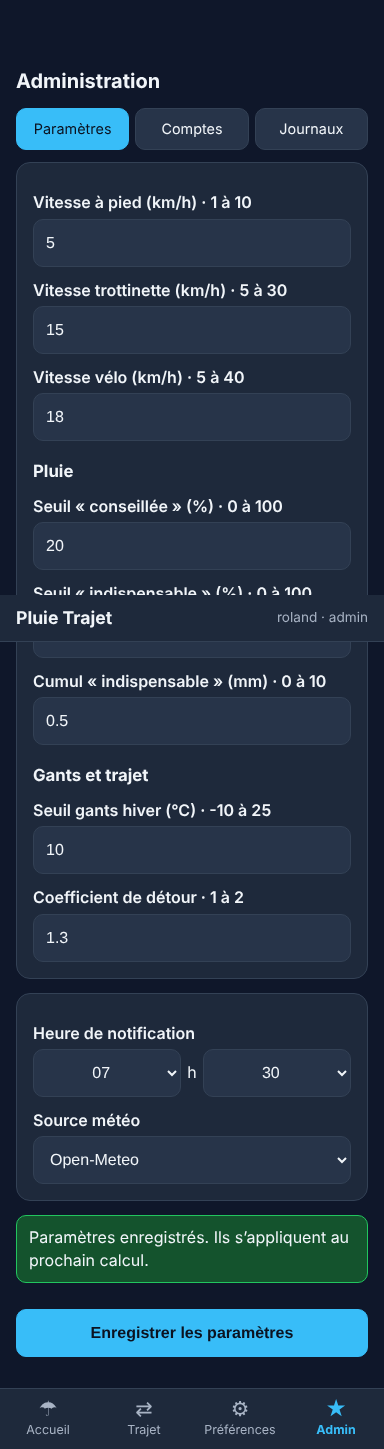
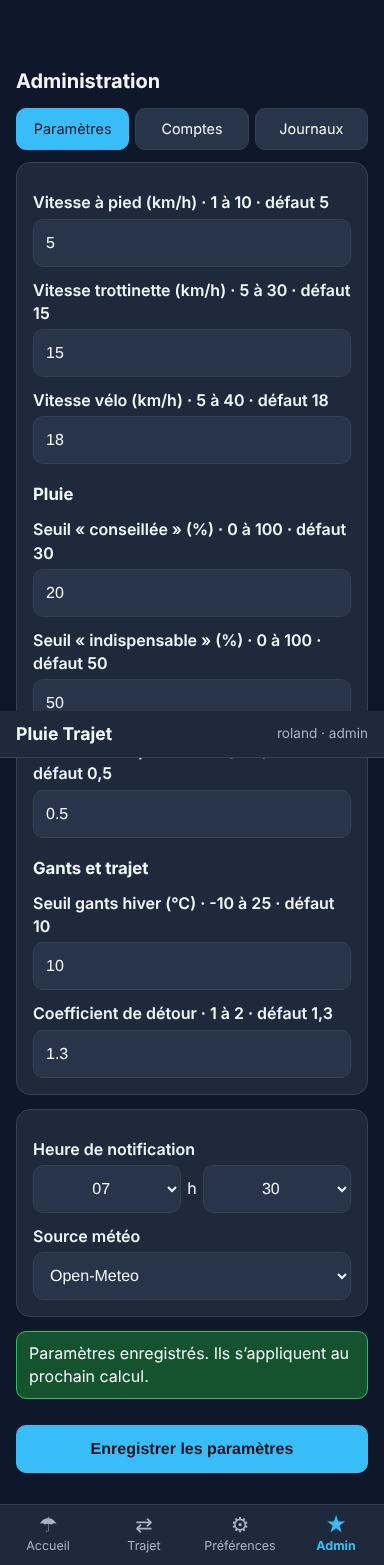
v1.0.1 : corrections des anomalies de la recette et re-recette
- ANO-01 champ admin vidé : valeur par défaut de la SDB (décision de Roland)
- ANO-03 nouvelle version livrée au téléphone (VERSION suffixée du commit au déploiement, cache sans HTTP, rechargement à la prise en main)
- ANO-04 date de mise à jour, ANO-05 un jour minimum, ANO-06 horaires inversés signalés
- ANO-07 temps de refus identique, ANO-08 coordonnées à 2 décimales, ANO-10 notification signale une prévision ancienne
- README : mot de passe admin oublié, limites connues (ANO-02 accepté en v1)
- Tests de recette en non-régression, ajoutés au workflow ; cahier de dev v1.0.1, cahier de recette v1.1

Claude-Session: https://claude.ai/code/session_01LxcTM3yKJSypCYi11mnSuz

diff --git a/app/js/ui/screens/admin.js b/app/js/ui/screens/admin.js
@@ -2,7 +2,7 @@
 import { ROLES } from '../../core/auth.js';
 import { LOG_TYPES } from '../../core/logs.js';
 import { loadSettings } from '../../core/service.js';
-import { validateSettings, WEATHER_SOURCES } from '../../core/settings.js';
+import { DEFAULT_SETTINGS, validateSettings, WEATHER_SOURCES } from '../../core/settings.js';
 import { KEYS } from '../../core/store.js';
 import { alertBox, fmtDateTime, h, mount, timeInput } from '../dom.js';
 
@@ -26,13 +26,15 @@ const FIELDS = [
   ['detourCoef', 'Coefficient de détour', 1, 2, '0.05'],
 ];
 
+const LABELS = Object.fromEntries(FIELDS.map(([key, label]) => [key, label]));
+
 export async function renderAdminParams(view, ctx) {
   const s = await loadSettings(ctx.store);
   const msg = h('div', { id: 'params-msg' });
   const inputs = {};
   const fields = FIELDS.map(([key, label, min, max, step]) => {
-    inputs[key] = h('input', { type: 'number', id: `p-${key}`, min, max, step, value: s[key], inputmode: 'decimal', required: true });
-    return h('div', {}, h('label', { for: `p-${key}` }, `${label} · ${min} à ${max}`), inputs[key]);
+    inputs[key] = h('input', { type: 'number', id: `p-${key}`, min, max, step, value: s[key], inputmode: 'decimal', required: true, placeholder: `Défaut ${DEFAULT_SETTINGS[key]}` });
+    return h('div', {}, h('label', { for: `p-${key}` }, `${label} · ${min} à ${max} · défaut ${String(DEFAULT_SETTINGS[key]).replace('.', ',')}`), inputs[key]);
   });
   inputs.notifyTime = timeInput('p-notifyTime', s.notifyTime, 'Heure de notification');
   inputs.weatherSource = h('select', { id: 'p-weatherSource' }, WEATHER_SOURCES.map((w) => h('option', { value: w, selected: w === s.weatherSource }, 'Open-Meteo')));
@@ -43,13 +45,26 @@ export async function renderAdminParams(view, ctx) {
       novalidate: true,
       onsubmit: async (e) => {
         e.preventDefault();
+        const before = { ...s };
         const input = Object.fromEntries(Object.entries(inputs).map(([k, el]) => [k, el.value]));
         const v = validateSettings(input);
         if (!v.ok) return mount(msg, alertBox(v.errors.join(' · ')));
+        // ANO-01 : un champ vidé est réaffiché avec sa valeur par défaut avant enregistrement
+        for (const k of v.defaulted) inputs[k].value = v.value[k];
         await ctx.store.set(KEYS.settings, v.value);
-        const changed = Object.keys(v.value).filter((k) => v.value[k] !== s[k]);
+        Object.assign(s, v.value);
+        const changed = Object.keys(v.value).filter((k) => v.value[k] !== before[k]);
         await ctx.logger.log('admin', `Paramètres modifiés : ${changed.join(', ') || 'aucun changement'}`);
-        mount(msg, alertBox('Paramètres enregistrés. Ils s’appliquent au prochain calcul.', 'success'));
+        const reset = v.defaulted.map((k) => `${LABELS[k]} : ${String(v.value[k]).replace('.', ',')}`);
+        mount(
+          msg,
+          alertBox(
+            reset.length
+              ? `Paramètres enregistrés. Champ vide remis à sa valeur par défaut : ${reset.join(' · ')}.`
+              : 'Paramètres enregistrés. Ils s’appliquent au prochain calcul.',
+            'success',
+          ),
+        );
       },
     },
     h('div', { class: 'card' }, fields.slice(0, 3), h('h3', {}, 'Pluie'), fields.slice(3, 6), h('h3', {}, 'Gants et trajet'), fields.slice(6)),

diff --git a/app/js/ui/screens/trip.js b/app/js/ui/screens/trip.js
@@ -1,7 +1,7 @@
 // Mon trajet (EXG-04 à EXG-07) : adresses, carte, ma position, horaires, jours, mode/vitesse.
 import { reverseLabel, searchAddress } from '../../core/address.js';
 import { tripMetrics } from '../../core/forecast.js';
-import { MANUAL_SPEED_MAX, MANUAL_SPEED_MIN, MODES, validateTrip, WEEKDAYS } from '../../core/rules.js';
+import { eveningBeforeMorning, MANUAL_SPEED_MAX, MANUAL_SPEED_MIN, MODES, validateTrip, WEEKDAYS } from '../../core/rules.js';
 import { loadSettings } from '../../core/service.js';
 import { KEYS } from '../../core/store.js';
 import { alertBox, fmtNum, h, mount, timeInput } from '../dom.js';
@@ -156,6 +156,7 @@ export async function renderTrip(view, ctx) {
     ),
   );
 
+  let confirmedTimes = null;
   const saveBtn = h('button', { type: 'submit', class: 'primary block', id: 'save-trip' }, 'Enregistrer mon trajet');
   const form = h(
     'form',
@@ -173,6 +174,13 @@ export async function renderTrip(view, ctx) {
         };
         const v = validateTrip(candidate);
         if (!v.ok) return mount(msg, alertBox(v.errors.join(' · ')));
+        // ANO-06 : horaires inversés → avertissement, confirmation par un second appui
+        const timesKey = `${candidate.morning}|${candidate.evening}`;
+        if (eveningBeforeMorning(candidate) && confirmedTimes !== timesKey) {
+          confirmedTimes = timesKey;
+          saveBtn.textContent = 'Enregistrer quand même';
+          return mount(msg, alertBox(`Attention : le départ du soir (${candidate.evening}) n’est pas après celui du matin (${candidate.morning}). Vérifiez vos horaires, ou appuyez sur « Enregistrer quand même ».`, 'warn'));
+        }
         await ctx.store.set(KEYS.trip(ctx.user.id), candidate);
         await ctx.store.del(KEYS.forecast(ctx.user.id));
         mount(msg, alertBox('Trajet enregistré.', 'success'));

diff --git a/app/js/core/settings.js b/app/js/core/settings.js
@@ -31,12 +31,19 @@ export const TIME_RE = /^([01]\d|2[0-3]):[0-5]\d$/;
 /**
  * Valide un objet de paramètres complet. Retourne { ok, errors, value }.
  * Les nombres peuvent arriver en chaîne (formulaire) : ils sont convertis.
+ * Un champ numérique vide reprend sa valeur par défaut ; `defaulted` liste ces champs.
  */
 export function validateSettings(input) {
   const errors = [];
   const value = { ...DEFAULT_SETTINGS };
+  const defaulted = [];
   for (const [key, [min, max, label]] of Object.entries(NUMERIC_BOUNDS)) {
     const raw = input?.[key];
+    // Champ vidé : jamais enregistré vide ni à 0, il reprend la valeur par défaut de la SDB (décision du 27/11/2026).
+    if (input != null && typeof raw === 'string' && raw.trim() === '') {
+      defaulted.push(key);
+      continue;
+    }
     const n = typeof raw === 'string' ? Number(raw.replace(',', '.')) : raw;
     if (!Number.isFinite(n) || n < min || n > max) {
       errors.push(`${label} : valeur attendue entre ${min} et ${max}`);
@@ -57,7 +64,7 @@ export function validateSettings(input) {
   if (errors.length === 0 && !(value.rainAdvisedPct < value.rainRequiredPct)) {
     errors.push('Le seuil « conseillée » doit être inférieur au seuil « indispensable »');
   }
-  return { ok: errors.length === 0, errors, value: errors.length === 0 ? value : null };
+  return { ok: errors.length === 0, errors, value: errors.length === 0 ? value : null, defaulted };
 }
 
 /** Fusionne des paramètres stockés avec les défauts (tolère les anciennes versions). */

diff --git a/app/js/ui/screens/home.js b/app/js/ui/screens/home.js
@@ -1,6 +1,6 @@
 // Accueil : verdict du jour (EXG-08 à EXG-10, EXG-12, RG-07).
-import { getDayReport, loadSettings } from '../../core/service.js';
-import { MODES, pointLevel } from '../../core/rules.js';
+import { getDayReport, loadSettings, stamp } from '../../core/service.js';
+import { MODES, pointLevel, sameDay } from '../../core/rules.js';
 import { KEYS } from '../../core/store.js';
 import { alertBox, fmtNum, fmtTime, h, mount } from '../dom.js';
 
@@ -9,6 +9,11 @@ const ADVICE = [
   'Vêtements de pluie conseillés.',
   'Prenez vos vêtements de pluie.',
 ];
+
+/** EXG-12 / ANO-04 : la date est ajoutée quand la prévision n'est pas du jour. */
+function updatedLabel(fetchedAt) {
+  return sameDay(new Date(fetchedAt), new Date()) ? `Mis à jour à ${fmtTime(fetchedAt)}` : `Mis à jour le ${stamp(fetchedAt)}`;
+}
 
 function verdictCard(report) {
   const { verdict, gloves } = report.result;
@@ -23,7 +28,7 @@ function verdictCard(report) {
       'div',
       { class: 'chips' },
       h('span', { class: 'chip', id: 'gloves' }, `🧤 ${gloves.label} (min ${fmtNum(gloves.minTemp)} °C)`),
-      h('span', { class: 'chip', id: 'updated' }, `Mis à jour à ${fmtTime(report.fetchedAt)}`),
+      h('span', { class: 'chip', id: 'updated' }, updatedLabel(report.fetchedAt)),
     ),
   );
 }

diff --git a/app/js/ui/app.js b/app/js/ui/app.js
@@ -10,7 +10,7 @@ import { renderPrefs } from './screens/prefs.js';
 import { renderAdminAccounts, renderAdminLogs, renderAdminParams } from './screens/admin.js';
 import { startNotificationScheduler } from './notifications.js';
 
-export const APP_VERSION = '1.0.0';
+export const APP_VERSION = '1.0.1';
 
 const ROUTES = {
   '/accueil': { render: renderHome, role: 'user', title: 'Accueil' },
@@ -131,6 +131,15 @@ window.addEventListener('error', (e) => logger.log('error', `JS : ${e.message}`)
 window.addEventListener('unhandledrejection', (e) => logger.log('error', `JS : ${e.reason?.message ?? e.reason}`));
 
 if ('serviceWorker' in navigator) {
+  // ANO-03 : quand une nouvelle version prend la main, on recharge une fois pour l'afficher tout de suite
+  // (pas au tout premier lancement, où il n'y avait pas encore de version installée).
+  const hadController = !!navigator.serviceWorker.controller;
+  let reloading = false;
+  navigator.serviceWorker.addEventListener('controllerchange', () => {
+    if (!hadController || reloading) return;
+    reloading = true;
+    location.reload();
+  });
   navigator.serviceWorker.register('sw.js', { type: 'module' }).catch((e) => logger.log('error', `Service worker : ${e.message}`));
 }
 

diff --git a/app/js/core/auth.js b/app/js/core/auth.js
@@ -40,6 +40,9 @@ export function createAuth({ store, volatile, logger, now = () => Date.now(), it
   const saveAccounts = (list) => store.set(KEYS.accounts, list);
   const log = (type, msg) => logger?.log(type, msg);
 
+  let dummy;
+  const dummyRecord = () => (dummy ??= { algo: 'PBKDF2-SHA256', iterations, salt: randomHex(16), hash: randomHex(32) });
+
   async function adminCount(list) {
     return list.filter((a) => a.role === 'admin').length;
   }
@@ -65,7 +68,8 @@ export function createAuth({ store, volatile, logger, now = () => Date.now(), it
         return { ok: false, error: `Trop d'essais. Réessayez dans ${s} s.` };
       }
       const acc = (await accounts()).find((a) => a.username.toLowerCase() === String(username).toLowerCase());
-      const good = acc ? await verifyPassword(password, acc.password) : false;
+      // ANO-07 : même calcul de hachage que l'identifiant existe ou non (temps de réponse identique)
+      const good = acc ? await verifyPassword(password, acc.password) : (await verifyPassword(String(password), dummyRecord()), false);
       if (!good) {
         guard.failed += 1;
         if (guard.failed >= MAX_FAILED) {

diff --git a/app/js/core/service.js b/app/js/core/service.js
@@ -52,6 +52,13 @@ export async function getDayReport({ store, logger, userId, refresh = true, fetc
   }
 }
 
+const pad2 = (n) => String(n).padStart(2, '0');
+/** « JJ/MM à HH:MM » en heure locale. */
+export function stamp(ms) {
+  const d = new Date(ms);
+  return `${pad2(d.getDate())}/${pad2(d.getMonth() + 1)} à ${pad2(d.getHours())}:${pad2(d.getMinutes())}`;
+}
+
 /** Texte de la notification quotidienne (EXG-11). */
 export function notificationText(report) {
   const r = report.result;
@@ -62,5 +69,7 @@ export function notificationText(report) {
       : r.verdict.level === 1
         ? 'Vêtements de pluie conseillés.'
         : 'Pas besoin de vêtements de pluie aujourd’hui.';
-  return { title, body: `${advice} ${r.gloves.label}.` };
+  // ANO-10 : une prévision ancienne (pas de réseau) est signalée dans la notification
+  const old = report.stale && Number.isFinite(report.fetchedAt) ? ` Prévision du ${stamp(report.fetchedAt)}, non mise à jour.` : '';
+  return { title, body: `${advice} ${r.gloves.label}.${old}` };
 }

diff --git a/app/js/core/weather.js b/app/js/core/weather.js
@@ -1,6 +1,8 @@
-// Accès Open-Meteo (RG-03). Seules les coordonnées des points sont envoyées (ENF-09).
+// Accès Open-Meteo (RG-03). Seules les coordonnées des points sont envoyées (ENF-09),
+// arrondies à 2 décimales (≈ 1 km, la maille du modèle météo est d'environ 2 km) : ANO-08.
 
 export const OPEN_METEO_URL = 'https://api.open-meteo.com/v1/forecast';
+export const COORD_DECIMALS = 2;
 export const HOURLY_VARS = ['precipitation_probability', 'precipitation', 'temperature_2m'];
 
 export class WeatherError extends Error {
@@ -14,7 +16,7 @@ export class WeatherError extends Error {
 /** Construit l'URL pour plusieurs points en un seul appel. */
 export function buildForecastUrl(points) {
   if (!points.length) throw new WeatherError('Aucun point à interroger');
-  const fmt = (n) => n.toFixed(4);
+  const fmt = (n) => n.toFixed(COORD_DECIMALS);
   const params = new URLSearchParams({
     latitude: points.map((p) => fmt(p.lat)).join(','),
     longitude: points.map((p) => fmt(p.lon)).join(','),

diff --git a/app/sw.js b/app/sw.js
@@ -3,7 +3,9 @@ import { createLogger } from './js/core/logs.js';
 import { maybeNotify } from './js/core/notifier.js';
 import { idbStore } from './js/core/store.js';
 
-const VERSION = 'v1.0.0';
+// ANO-03 : le workflow de publication remplace cette valeur par « version-commit » à chaque déploiement,
+// ce qui installe un nouveau cache et livre la nouvelle version sur le téléphone.
+const VERSION = 'v1.0.1';
 const CACHE = `pluie-trajet-${VERSION}`;
 const SHELL = [
   './',
@@ -44,7 +46,13 @@ const SHELL = [
 ];
 
 self.addEventListener('install', (event) => {
-  event.waitUntil(caches.open(CACHE).then((c) => c.addAll(SHELL)).then(() => self.skipWaiting()));
+  // cache: 'reload' : on contourne le cache HTTP du navigateur pour ne jamais figer d'anciens fichiers.
+  event.waitUntil(
+    caches
+      .open(CACHE)
+      .then((c) => c.addAll(SHELL.map((u) => new Request(u, { cache: 'reload' }))))
+      .then(() => self.skipWaiting()),
+  );
 });
 
 self.addEventListener('activate', (event) => {

diff --git a/app/js/core/rules.js b/app/js/core/rules.js
@@ -38,6 +38,8 @@ export function validateTrip(trip) {
   if (!TIME_RE.test(String(trip?.evening ?? ''))) errors.push('Heure du soir invalide (HH:MM, 24 h)');
   if (!Array.isArray(trip?.workdays) || trip.workdays.some((d) => !Number.isInteger(d) || d < 0 || d > 6)) {
     errors.push('Jours de travail invalides');
+  } else if (trip.workdays.length === 0) {
+    errors.push('Cochez au moins un jour de travail'); // ANO-05
   }
   if (!Object.hasOwn(MODES, trip?.mode ?? '')) errors.push('Mode de déplacement invalide');
   if (trip?.manualSpeed != null) {
@@ -47,6 +49,11 @@ export function validateTrip(trip) {
     }
   }
   return { ok: errors.length === 0, errors };
+}
+
+/** ANO-06 : départ du soir au plus tard égal à celui du matin (avertissement non bloquant). */
+export function eveningBeforeMorning(trip) {
+  return TIME_RE.test(String(trip?.morning)) && TIME_RE.test(String(trip?.evening)) && trip.evening <= trip.morning;
 }
 
 /** EXG-07 / RG-02 : la vitesse manuelle remplace celle du mode. */

diff --git a/docs/cahier-de-recette.md b/docs/cahier-de-recette.md
@@ -1,6 +1,6 @@
-# Application_01 · Cahier de recette v1.0
+# Application_01 · Cahier de recette v1.1
 
-Version 1.0 du 26/11/2026 · Recetteur : Rec_A · Pilote : manager_A · Demandeur : Roland
+Version 1.1 du 27/11/2026 · Recetteur : Rec_A · Pilote : manager_A · Demandeur : Roland
 
 ## 1. Objet et périmètre
 
@@ -37,7 +37,9 @@ Rejouer la recette : `npm run test:unit`, `npm run test:e2e`, puis `TZ=Europe/Pa
 | Points à arbitrer avec Roland (via manager_A) | 4 |
 | Tests à faire sur le S21 Ultra | 13 |
 
-**Avis du recetteur : recette NON prononcée, avec réserves.** Le cœur métier est juste : les règles RG-01 à RG-08 donnent le bon verdict aux bornes, les profils sont séparés à l'écran, les mots de passe sont correctement hachés et aucun texte externe n'est injecté dans la page. Deux anomalies majeures doivent être corrigées avant la mise en service : un paramètre admin vidé est enregistré à 0 sans prévenir (ANO-01, fausse alerte pluie tous les jours), et une nouvelle version de l'application n'arrive pas sur le téléphone tant que le numéro de cache n'est pas changé à la main (ANO-03, les corrections futures risquent de ne jamais être livrées). Les tests sur le téléphone restent à faire.
+**Mise à jour v1.1 (27/11/2026) : après corrections, toutes les anomalies retenues sont corrigées et vérifiées (section 9). Avis : recette technique, sécurité et fonctionnelle prononcée sur l'environnement de dev ; la validation finale attend les tests sur le S21 Ultra (section 7).**
+
+Avis initial v1.0 : recette NON prononcée, avec réserves. Le cœur métier est juste : les règles RG-01 à RG-08 donnent le bon verdict aux bornes, les profils sont séparés à l'écran, les mots de passe sont correctement hachés et aucun texte externe n'est injecté dans la page. Deux anomalies majeures doivent être corrigées avant la mise en service : un paramètre admin vidé est enregistré à 0 sans prévenir (ANO-01, fausse alerte pluie tous les jours), et une nouvelle version de l'application n'arrive pas sur le téléphone tant que le numéro de cache n'est pas changé à la main (ANO-03, les corrections futures risquent de ne jamais être livrées). Les tests sur le téléphone restent à faire.
 
 ## 4. Cas de tests
 
@@ -151,12 +153,33 @@ Préalable : régler GitHub → Settings → Pages → Source : GitHub Actions, 
 
 | Fichier | Contenu |
 | --- | --- |
-| `tests/recette/recette.test.mjs` | 19 cas automatisés de Rec_A (REC-F01 à F09, REC-S01 à S09, REC-T01), affichent les constats ANO |
+| `tests/recette/recette.test.mjs` | 21 cas automatisés de Rec_A (non-régression des anomalies), lancés par `npm run test:recette` et par le workflow |
 | `docs/cahier-de-recette.md` | Ce document |
 
-## 9. Historique
+## 9. Re-recette des corrections v1.0.1 (27/11/2026)
+
+Les tests de recette ont été transformés en tests de non-régression : ils échouent si une anomalie revient. Résultats : 62 tests unitaires (couverture 100 % des règles de calcul), 20 tests fonctionnels, 21 tests de recette, tous OK.
+
+| Anomalie | Vérification | Statut |
+| --- | --- | --- |
+| ANO-01 | Champ vidé : « Paramètres enregistrés. Champ vide remis à sa valeur par défaut : Cumul « indispensable » (mm) : 0,5 », valeur 0,5 réaffichée et stockée ; la valeur par défaut est indiquée sous chaque champ | Corrigée |
+| ANO-02 | Risque accepté par Roland pour la v1 ; écrit dans le README (limites connues) ; point majeur des versions suivantes | Acceptée |
+| ANO-03 | Nouvelle version publiée (VERSION suffixée comme le fait le workflow) : affichée dès la réouverture, puis disponible hors-ligne | Corrigée |
+| ANO-04 | Prévision de la veille : « Mis à jour le 26/11 à 18:00 » | Corrigée |
+| ANO-05 | Trajet sans jour coché : « Cochez au moins un jour de travail » | Corrigée |
+| ANO-06 | Matin 18:00, soir 08:00 : avertissement, puis « Enregistrer quand même » enregistre | Corrigée |
+| ANO-07 | Temps de refus équivalent pour un identifiant existant ou inconnu | Corrigée |
+| ANO-08 | Open-Meteo reçoit `latitude=47.22` au lieu de `47.2153` | Corrigée |
+| ANO-09 | Vue « demain » prévue en v1.1 (décision de Roland) | Reportée |
+| ANO-10 | Notification hors-ligne : « Prévision du 26/11 à 18:05, non mise à jour. » | Corrigée |
+| P4 | Procédure « mot de passe administrateur oublié » dans le README | Fait |
+
+Reste à faire : publication GitHub Pages (réglage Source par Roland), puis les tests D01 à D13 sur le S21 Ultra.
+
+## 10. Historique
 
 | Version | Date | Auteur | Changement |
 | --- | --- | --- | --- |
 | v1.0 | 26/11/2026 | Rec_A | Première recette sur `main` (commit 2a154c6) |
 | v1.0.1 | 27/11/2026 | Rec_A | ANO-01 : correction décidée par Roland (valeur par défaut de la SDB) ; ANO-02 / P1 : risque accepté en v1, point majeur des versions suivantes ; P2 arrondi validé, P3 vue « demain » en v1.1, P4 accepté avec procédure README |
+| v1.1 | 27/11/2026 | Rec_A | Re-recette des corrections v1.0.1 (section 9) |

diff --git a/docs/cahier-de-dev.md b/docs/cahier-de-dev.md
@@ -145,8 +145,27 @@ npm install --no-save playwright && npx playwright install chromium
 npm run test:e2e    # 20 tests fonctionnels
 ```
 
+## 12. Corrections v1.0.1 (anomalies de la recette v1.0)
+
+Décision de Roland du 27/11/2026 : corriger toutes les anomalies (majeures et mineures). ANO-02 est accepté en v1 (point majeur des versions suivantes) et ANO-09 (vue « demain ») est prévu en v1.1.
+
+| Anomalie | Correction | Preuve |
+| --- | --- | --- |
+| ANO-01 | Un champ numérique vidé dans Paramètres admin reprend la valeur par défaut de la SDB, réaffichée avec un message ; la valeur par défaut est indiquée sous chaque champ | `tests/unit/corrections-recette.test.mjs`, REC-S01, REC-S07 |
+| ANO-03 | Le workflow suffixe `VERSION` de `sw.js` avec le commit à chaque publication ; le cache est rempli sans le cache HTTP (`cache: 'reload'`) ; la page se recharge une fois quand la nouvelle version prend la main | REC-T06 (nouvelle version affichée dès la réouverture, puis hors-ligne) |
+| ANO-04 | « Mis à jour le JJ/MM à HH:MM » quand la prévision n'est pas du jour | REC-F08 |
+| ANO-05 | Au moins un jour de travail exigé | unitaire, REC-F04 |
+| ANO-06 | Horaires inversés : avertissement et bouton « Enregistrer quand même » | unitaire, REC-F10 |
+| ANO-07 | Hachage fictif quand l'identifiant est inconnu (même temps de réponse) | unitaire, REC-S05 |
+| ANO-08 | Coordonnées envoyées à Open-Meteo arrondies à 2 décimales (≈ 1 km) | unitaire, REC-S06 |
+| ANO-10 | Notification : « Prévision du JJ/MM à HH:MM, non mise à jour. » quand elle a plus de 3 h | unitaire |
+| P4 | Procédure « mot de passe administrateur oublié » et limites connues dans le README | README |
+
+Résultats : 62 tests unitaires (couverture 100 % maintenue), 20 tests fonctionnels, 21 tests de recette, tous OK. Les tests de recette sont ajoutés au workflow (`npm run test:recette`).
+
 ## Historique
 
 | Version | Date | Auteur | Changement |
 | --- | --- | --- | --- |
 | v1.0 | 26/11/2026 | Dev_A | Première version, d'après la SDB v0.1 |
+| v1.0.1 | 27/11/2026 | Dev_A | Corrections des anomalies de la recette v1.0 (section 12) |
